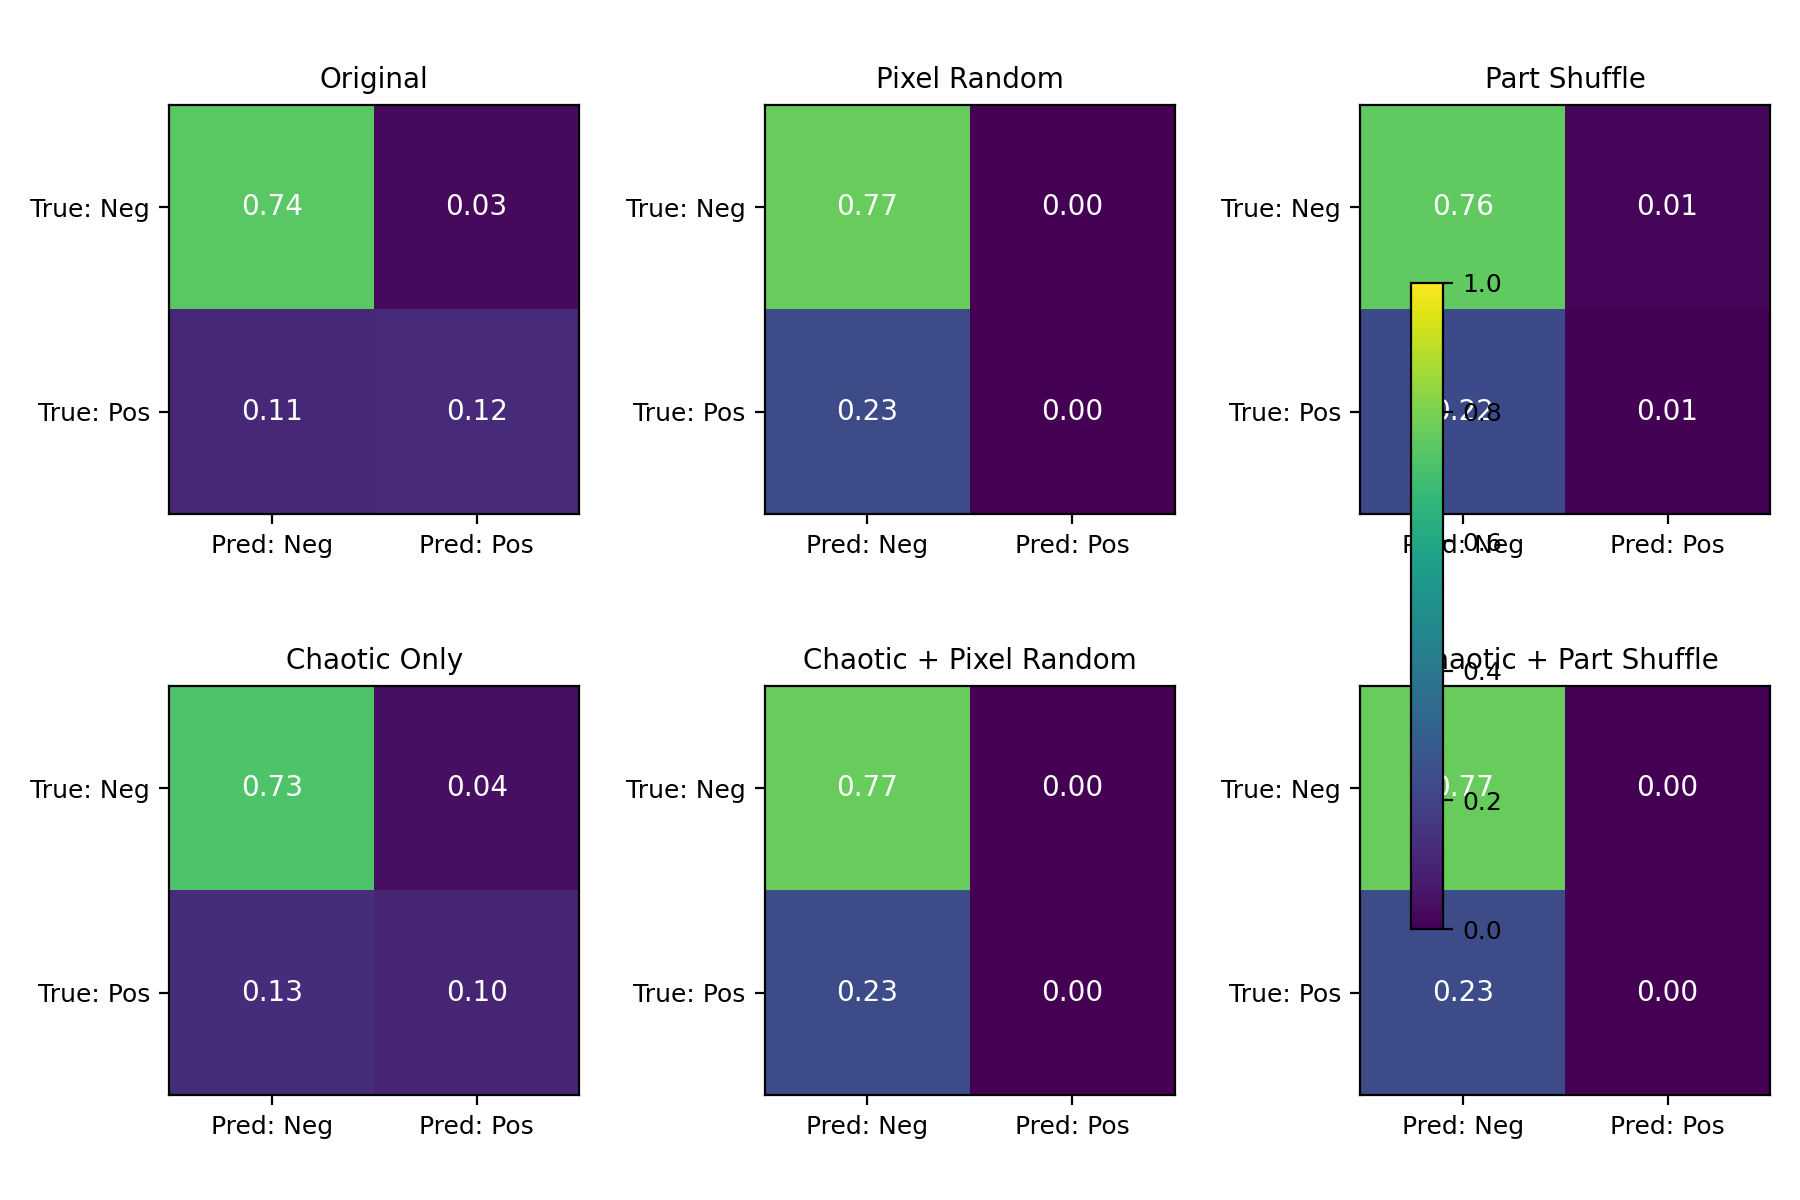
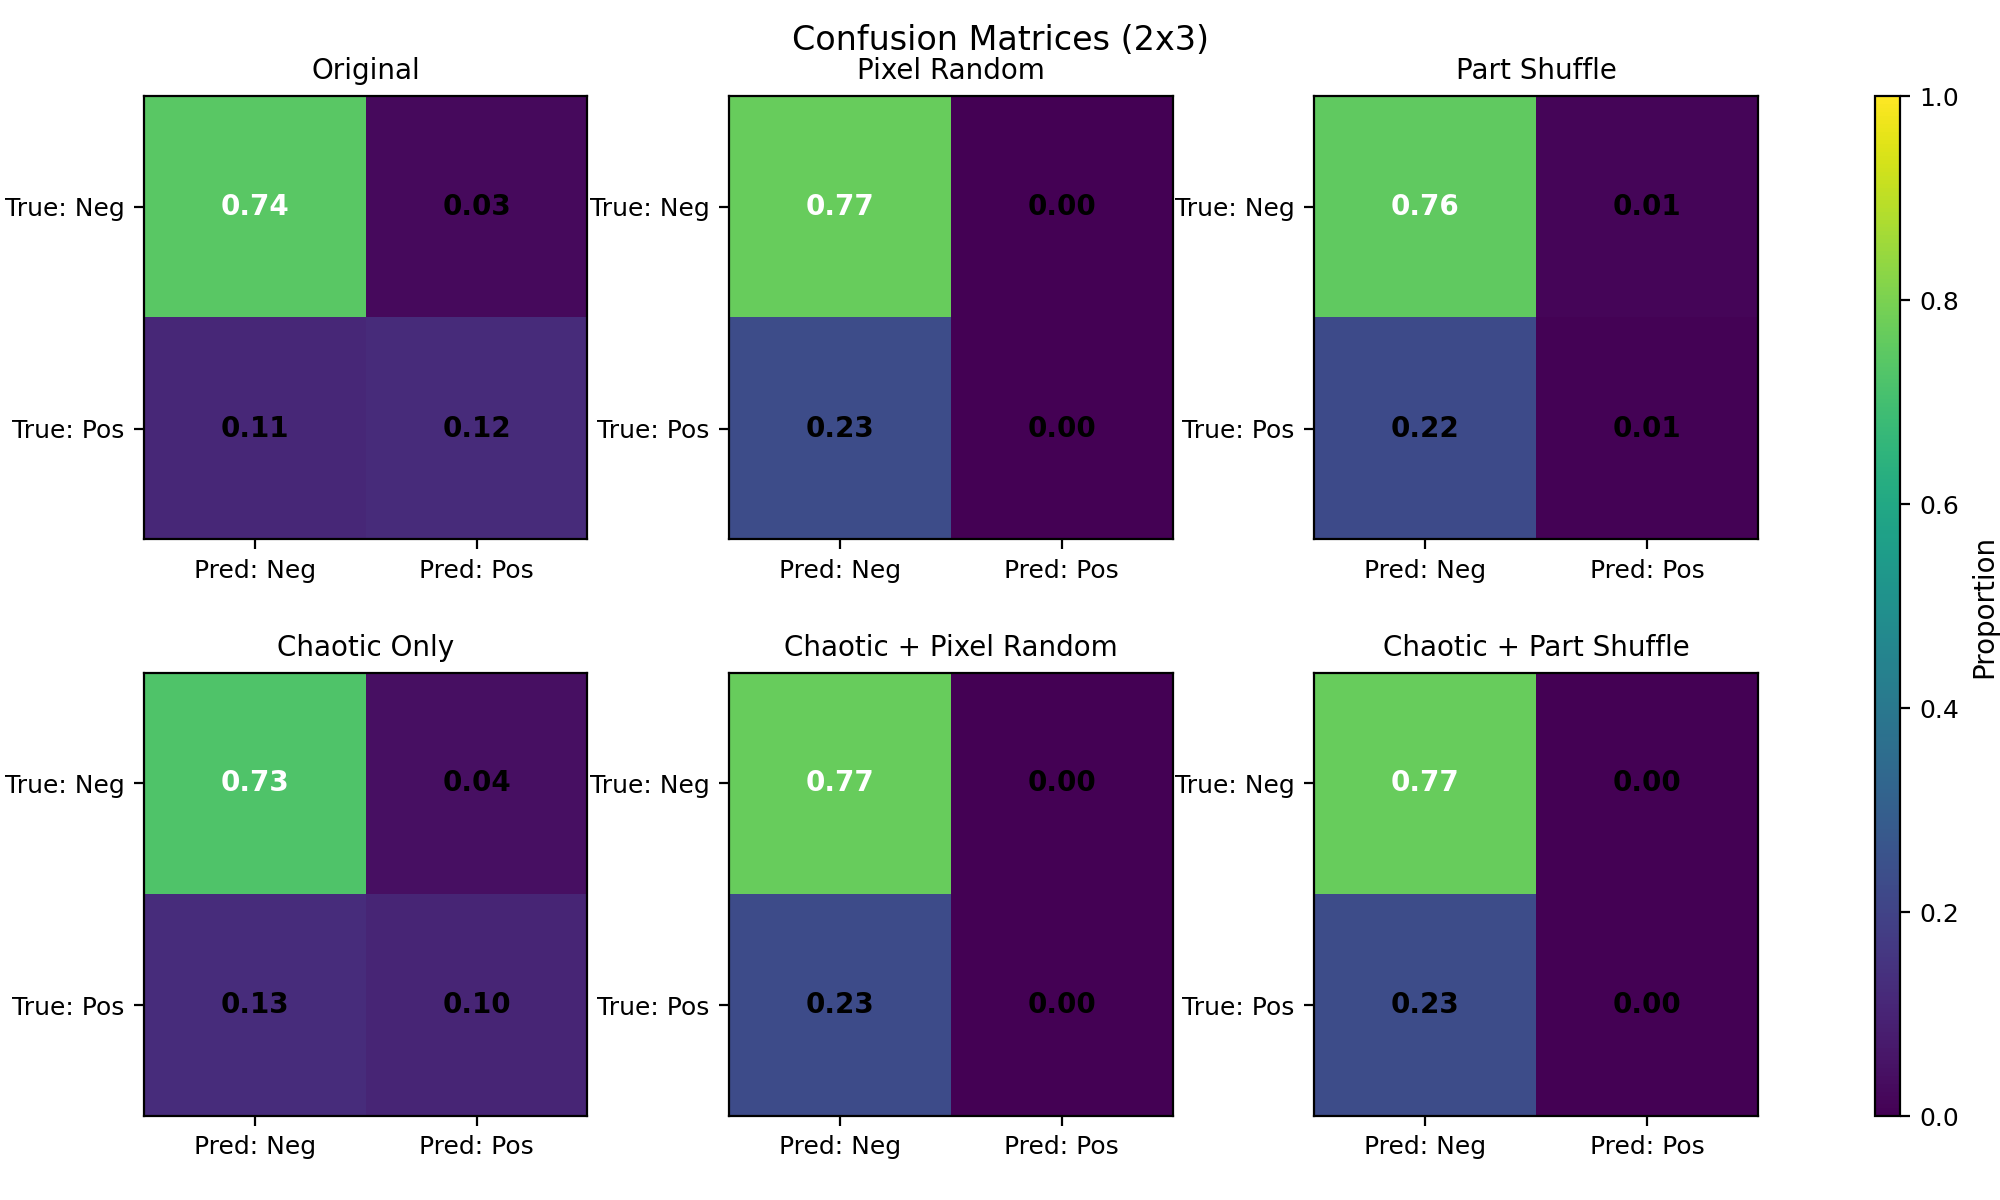
.

diff --git a/make_confusion_grid_only.py b/make_confusion_grid_only.py
@@ -1,0 +1,106 @@
+# RSNA/export_confusion_grid_only.py
+# 6개 케이스의 eval_result.json을 읽어 2x3 혼동행렬 그리드와 공통 colorbar를 저장
+
+import json
+from pathlib import Path
+import numpy as np
+import matplotlib.pyplot as plt
+
+# ====== 경로/케이스 정의 ======
+ROOT = Path(__file__).resolve().parent
+OUTDIR = ROOT / "_reports"
+OUTDIR.mkdir(parents=True, exist_ok=True)
+OUT_PATH = OUTDIR / "confusion_grid.png"
+
+CASES = [
+    "Original",
+    "Pixel Random",
+    "Part Shuffle",
+    "Chaotic Only",
+    "Chaotic + Pixel Random",
+    "Chaotic + Part Shuffle",
+]
+
+EVAL_JSONS = {
+    "Original":                 ROOT / "basic"                / "eval_result.json",
+    "Pixel Random":             ROOT / "pixelShuffle-only"    / "eval_result.json",
+    "Part Shuffle":             ROOT / "partShuffle-only"     / "eval_result.json",
+    "Chaotic Only":             ROOT / "chaotic-only"         / "eval_result.json",
+    "Chaotic + Pixel Random":   ROOT / "chaotic_pixelShuffle" / "eval_result.json",
+    "Chaotic + Part Shuffle":   ROOT / "chaotic_partShuffle"  / "eval_result.json",
+}
+
+def load_confusion_matrices():
+    """각 케이스의 eval_result.json -> 2x2 비율 행렬(dict)."""
+    cms = {}
+    for title in CASES:
+        jpath = EVAL_JSONS.get(title)
+        if not jpath or not jpath.exists():
+            print(f"⚠  Skip (json not found): {jpath}")
+            continue
+        with open(jpath, "r") as f:
+            data = json.load(f)
+        tn = int(data["metrics"]["tn"])
+        fp = int(data["metrics"]["fp"])
+        fn = int(data["metrics"]["fn"])
+        tp = int(data["metrics"]["tp"])
+        total = max(1, tn + fp + fn + tp)
+        cms[title] = np.array([[tn, fp], [fn, tp]], dtype=np.float32) / float(total)
+    return cms
+
+def draw_confusion_grid(cms: dict, out_path: Path):
+    """
+    2x3 그리드 + 별도 colorbar 열(겹침 방지).
+    """
+    # ----- Figure & GridSpec: 마지막 1열은 colorbar 전용 -----
+    fig = plt.figure(figsize=(10, 6), constrained_layout=False)
+    gs = fig.add_gridspec(nrows=2, ncols=4,  # 3열 플롯 + 1열 컬러바
+                          width_ratios=[1, 1, 1, 0.05],
+                          wspace=0.25, hspace=0.30)
+
+    axes = []
+    for r in range(2):
+        for c in range(3):
+            axes.append(fig.add_subplot(gs[r, c]))
+
+    cax = fig.add_subplot(gs[:, 3])  # colorbar 전용 축
+
+    im_ref = None
+    for i, title in enumerate(CASES):
+        ax = axes[i]
+        cm = cms.get(title)
+        if cm is None:
+            ax.axis("off")
+            continue
+
+        im_ref = ax.imshow(cm, cmap="viridis", vmin=0, vmax=1)
+
+        # 값 표기 (가독성 위해 값에 따라 글자색 선택)
+        for (r, c), v in np.ndenumerate(cm):
+            txt_color = "white" if v >= 0.5 else "black"
+            ax.text(c, r, f"{v:.2f}", ha="center", va="center",
+                    color=txt_color, fontsize=10, fontweight="bold")
+
+        ax.set_title(title, fontsize=10)
+        ax.set_xticks([0, 1]); ax.set_yticks([0, 1])
+        ax.set_xticklabels(["Pred: Neg", "Pred: Pos"], fontsize=9)
+        ax.set_yticklabels(["True: Neg", "True: Pos"], fontsize=9)
+
+    # 공통 colorbar를 전용 축(cax)에 배치 → 다른 플롯과 절대 겹치지 않음
+    if im_ref is not None:
+        cbar = fig.colorbar(im_ref, cax=cax)
+        cbar.ax.tick_params(labelsize=9)
+        cbar.set_label("Proportion", fontsize=10)
+
+    # 플롯 주변 여백 미세 조정
+    fig.suptitle("Confusion Matrices (2x3)", fontsize=12, y=0.98)
+    fig.subplots_adjust(left=0.06, right=0.95, top=0.92, bottom=0.07)
+
+    out_path.parent.mkdir(parents=True, exist_ok=True)
+    fig.savefig(out_path, dpi=200)
+    plt.close(fig)
+    print(f"✅ Saved {out_path}")
+
+if __name__ == "__main__":
+    cms = load_confusion_matrices()
+    draw_confusion_grid(cms, OUT_PATH)
